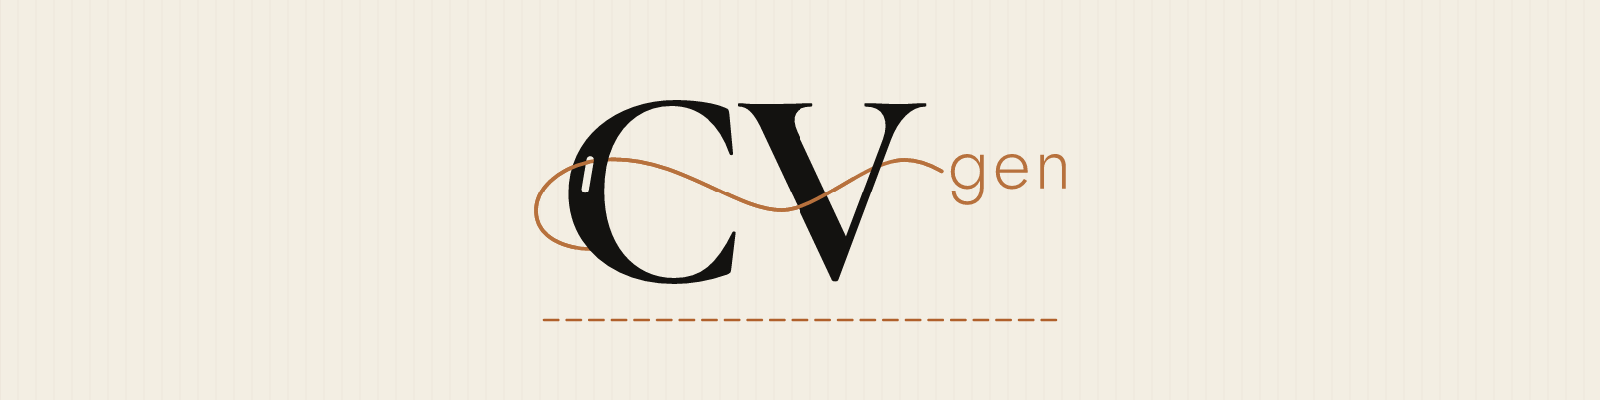
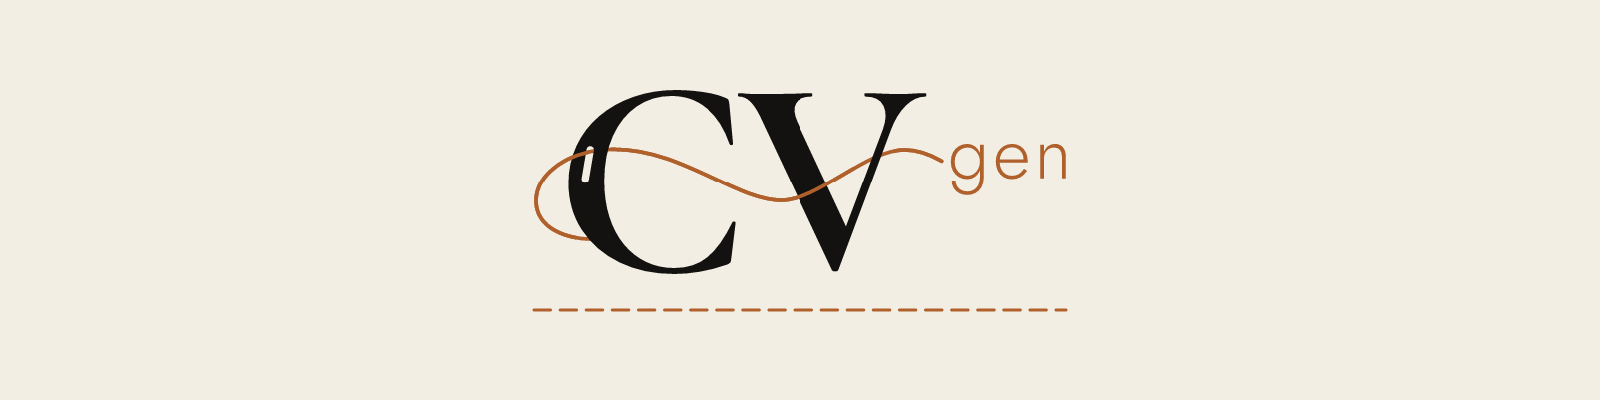
fix: intake-form review round 3 notes; header design notes applied
checkForm_ rejects unknown keys, duplicate page ids, backward jumps and a
jump choice that is not required; font fallback in the theme steps;
glossary wording. Header: one copper, no weave, balanced, stitch matches
the wordmark (design-reviewer PASS). F1, the question cap, awaits the
owner.

Claude-Session: https://claude.ai/code/session_017CtrLP6EJRT2wGrJQYAksx

Changed region(s): [[0.3125, 0.21, 0.6875, 0.69], [0.3125, 0.75, 0.6562, 0.81], [0.3125, 0.54, 0.4688, 0.72]]

diff --git a/docs/work/intake-form/reviews/03.md b/docs/work/intake-form/reviews/03.md
@@ -1,0 +1,43 @@
+# Review round 3: intake-form
+
+Snapshot: 7288988..e34c95b (one commit, 5 files), read line by line; the whole of `scripts/intake-form.gs` and the whole guide read.
+Lead lenses: (2) correctness of the new engine against the real Apps Script API; (8) documentation and process consistency.
+
+Coverage: product fit meets the owner's rejection note (real question types, pages, progress bar, house header), see F1; every FormApp method and enum used exists with the arity used, jumps wired after all pages exist, the client form's skip routes correctly; data integrity n/a; the public example FORM is generic; the dry-run rerun matches the author's output but a recording stand-in cannot catch a misspelled method; `checkForm_` rejects all 8 bad FORMs before `FormApp.create`; proportionate; LF endings, `git diff --check` clean, brand README accurate.
+
+## Findings
+
+### F1 Material: follow-up cap contradicts the form shape this change teaches
+Anchor: docs/guides/client-workflow.md:25 and 208-210; .claude/skills/new-client/SKILL.md:51; guide section 2.
+Step 7 says "aim for 5, never more than 10", "optionally as an `Intake Form`"; section 2 now teaches pages and quick question types; the evidence form (a follow-up) has 27 questions plus consent on 8 pages. Sessions will either break a still-active "never" rule or cut forms back to the text-box shape the owner rejected. Fix: put it to the owner, record his answer, align the table row, section 7 and skill step 7 (e.g. a time budget, or a cap on free-text questions only). Until then, do not send the form as it is.
+
+### F2 Minor: theme steps state unverified UI as fact
+Guide lines 91-95: "More fonts", Bona Nova and Source Sans 3 in Forms' font menu unconfirmed. Fix: confirm on the owner's first run; add a fallback.
+
+### F3 Minor: jumps can only skip ahead; some jump mistakes pass the check
+An option routed to an earlier page, duplicate page ids, and a target at or before its own choice all pass `checkForm_`. Current forms unaffected. Fix: document "a jump skips ahead; later pages follow in order"; reject duplicate ids and targets not after the choice.
+
+### N1 Note: "the same questions as a Relay message" is now loose
+docs/glossary.md:52, guide line 77. Suggested: "the Relay questions (or the follow-up) as a designed Google Form".
+
+### N2 Note: unsupported keys are silently ignored
+e.g. `other` on a dropdown, a typo such as `goto`; a non-required `goTo` choice lets a blank answer fall through. Optionally reject unknown keys.
+
+### N3 Note: limits of the evidence
+The stand-in accepts any method name; the owner's first real run is the proof. The masked client dry-run output still showed a Latin first name (ignored `builds/`, nothing to fix).
+
+## Checks rerun
+builds/review-intake-form-r3-20260928-211931/: `node --check` exit 0; dry run identical to the author's, 8 invalid cases throw with 0 creates; header compile exit 0, 1600x400, hash matches; `git diff --check` exit 0.
+
+## Limitations
+Google's live docs and UI unreachable; `private/` and Trello not read; the header's looks left to the design-reviewer.
+
+## Verdict: FINDINGS
+
+## Dispositions (lead, 2026-09-28)
+- F1 open: put to the owner 2026-09-28; the form is not sent until he decides and section 7, the step table and skill step 7 are aligned.
+- F2 applied: fallback "a font the menu does not offer stays at the default"; the owner's first run confirms the menu.
+- F3 applied: the kinds comment says a jump only skips ahead; `checkForm_` rejects duplicate page ids and backward jumps.
+- N1 applied: glossary row reworded as suggested.
+- N2 applied: `checkForm_` rejects unknown keys and a `goTo` choice that is not required.
+- N3: masking now includes the Latin spelling. Evidence: builds/intake-form-dryrun-20260928-212122/ (12 invalid cases, all throw with 0 creates).

diff --git a/docs/work/intake-form/reviews/03-design-reviewer.md b/docs/work/intake-form/reviews/03-design-reviewer.md
@@ -1,0 +1,30 @@
+# Design review round 1: intake-form header (2026-09-28)
+
+Snapshot: brand/forms/intake-header.png (1600 x 400), source brand/forms/intake-header.typ, byte-identical to builds/intake-header-20260928-211651/intake-header.png. A production brand asset, not an idea-run concept.
+
+Rubric scope: 1 (reads as a CV) and 5 (schema, month totals, template path) n/a; 4 in part (original artwork, OFL wordmark outlines documented in brand/README.md, no data); 2 (premium and distinct) and 3 (craft) in full.
+
+## brand/forms/intake-header: PASS
+First impression: the black "CV" with its copper thread, centred on warm paper, one short running stitch beneath; quiet and deliberate, the opposite of a rushed job.
+
+- D1 Note (colour): the wordmark's thread and "gen" are #B7713D, the stitch and the Forms theme bar #B0602B (ΔE ≈ 8). Fix: recolour the SVG inside the header only; record the two-copper split as an open brand item.
+- D2 Note (weave): 90 vertical 0.25 pt lines read as pinstripe at full size and as banding at phone width; the source comment is wrong (the tag card is plain). Fix: delete the weave.
+- D3 Note (fit): the paper #F3EEE3 is yellower than the tint Forms likely derives from #B0602B. Fix: sample the live background after theming, or accept the difference knowingly.
+- D4 Nit (balance): content centre ~10 px below the middle. Fix: wordmark dy -9pt, stitch dy -45pt.
+- D5 Nit (alignment): stitch 544–1056 px vs wordmark 534–1065 px, a near miss. Fix: match the wordmark (267pt–533pt) or clearly shorter.
+- D6 Nit (stitch at phone width): thins to a dotted rule at 1x, reads as stitch at 2–3x; optionally w = 1.6pt.
+
+Checked and fine: wordmark legibility at 360 CSS px (3x), the needle's eye at 3x, distinct from the stock stitched-patch look, no words is right.
+
+Renders: builds/design-review-20260928-2130/ (360, 412, 640 px; 3x zoom; 1080 px at dpr 3; a phone mock under Forms' chrome; weave and stitch crops).
+
+## Verdict: PASS
+
+## Dispositions (lead, 2026-09-28)
+- D1 applied: the header recolours #B7713D to #B0602B when it reads the wordmark; the brand files are unchanged (open brand item noted in brand/README.md).
+- D2 applied: weave removed.
+- D3 applied: the guide's theme step picks the background swatch closest to the header's paper.
+- D4 applied: dy -9pt and -45pt.
+- D5 applied: stitch 267pt–533pt, matching the wordmark.
+- D6 applied in part: w = 1.5pt.
+New render: builds/intake-header-20260928-211942/intake-header.png, copied to brand/forms/.

diff --git a/docs/glossary.md b/docs/glossary.md
@@ -49,7 +49,7 @@ owner afterwards.
 | `Drawer` | One of the `Envelope`'s workflow folders: `intake/`, `research/`, `draft/` | `docs/guides/client-workflow.md` step 1 | 2026-09-25 |
 | `Intake` | Collecting a `Client`'s facts and goals before research: a question list sent by chat, answers kept in the `Envelope` | `docs/guides/client-workflow.md` step 2, `new-client` skill, `intake/` | 2026-09-25 |
 | `Relay` | The `Intake` method: Claude Code writes the questions and follow-ups, the owner passes them to the `Client` by chat and brings the answers back | `docs/guides/client-workflow.md` steps 2 and 7 | 2026-09-25, owner |
-| `Intake Form` | An optional Google Form with the same questions as a `Relay` message, made by the owner running a per-form Apps Script; its answers land in a Google Sheet in his Drive | `scripts/intake-form.gs`, `intake/form-NN.gs`, `intake/answers-NN.csv`; `docs/guides/client-workflow.md` step 2 | 2026-09-28, owner |
+| `Intake Form` | The `Relay` questions (or the follow-up) as an optional, designed Google Form, made by the owner running a per-form Apps Script; its answers land in a Google Sheet in his Drive | `scripts/intake-form.gs`, `intake/form-NN.gs`, `intake/answers-NN.csv`; `docs/guides/client-workflow.md` step 2 | 2026-09-28, owner |
 | `Research Library` | Shared, dated research notes about a country, a `Domain` or a `Rank`, reused across `Client`s and rechecked after 6 months. No client data | `docs/research/` | 2026-09-25 |
 | `Scout` | A wide, shallow first search for one `Client`: the `Research Library` first, the web for what is missing | `docs/guides/client-workflow.md` step 4, `research/scout.md` | 2026-09-25 |
 | `CV Decisions` | The list of choices a CV must make (title wording, length, photo, language, `Template`, what leads), each with a sourced answer, a judgement or "open" | `research/decisions.md`, `docs/guides/client-workflow.md` step 5 | 2026-09-25 |

diff --git a/docs/guides/client-workflow.md b/docs/guides/client-workflow.md
@@ -91,8 +91,10 @@ the project's link back, and Claude lists them under "Google" in the
 `Envelope`'s `README.md`. Before sending the link, the owner gives the
 form the house theme (the palette icon in the form's editor; about a
 minute): Header, upload `brand/forms/intake-header.png`; Color, custom,
-`#B0602B`; Background, the lightest swatch; Text style, Header "Bona
-Nova" (under More fonts), Question and Text "Source Sans 3". A client can edit an answer only through the
+`#B0602B`; Background, the swatch closest to the header's warm paper
+(usually the lightest); Text style, Header "Bona
+Nova" (under More fonts), Question and Text "Source Sans 3"; a font the
+menu does not offer stays at the default. A client can edit an answer only through the
 edit link shown once, after sending, so the owner downloads the answers
 when the client says he is done: in the form's Responses tab, the
 three-dot menu, then Download responses (.csv). It arrives as a ZIP;

diff --git a/brand/README.md b/brand/README.md
@@ -158,3 +158,8 @@ wordmark, one copper running stitch). No words beyond the wordmark,
 because Forms shows the header at phone width. Source
 `intake-header.typ`; the command is in its first lines. The theme steps
 that go with it are in `docs/guides/client-workflow.md`, section 2.
+
+Open brand item (design review, 2026-09-28): the logo files use copper
+`#B7713D`, the house design First Fitting and the form theme `#B0602B`.
+The header recolours the wordmark to `#B0602B` when it reads it; the logo
+files are unchanged until the owner picks one copper.
